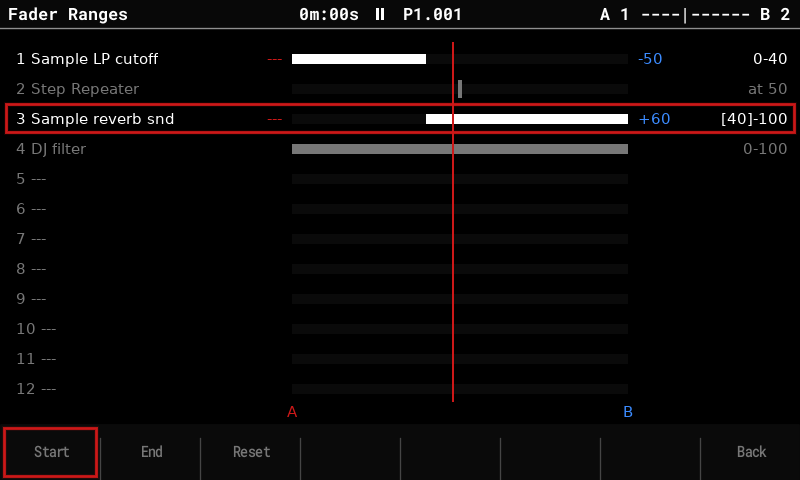
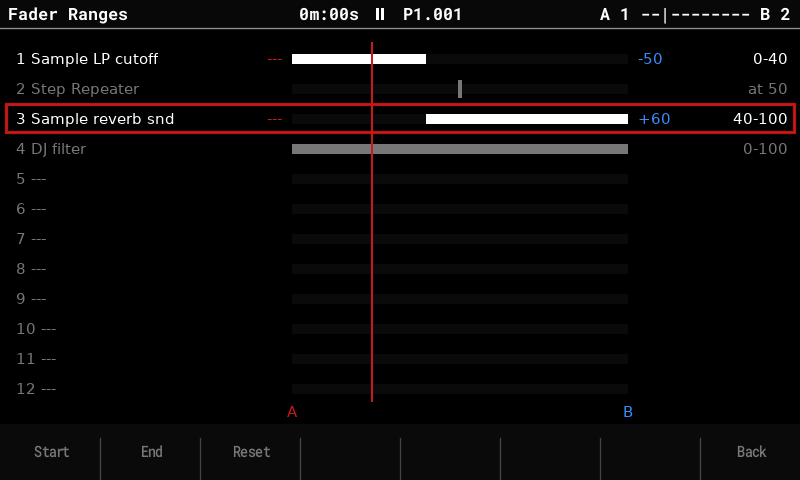
Fader Ranges page: Start / End toggle like Rec, the encoder moves the fader
F1 Start / F2 End now toggle their edge on and off. With one on, the
encoder moves that edge (its key framed, the edge bracketed); with neither,
the encoder moves the scene fader, as on the Performance screen. That
replaces Shift+encoder for the fader, so the page has no key combo. The
page opens with no edge on.

Changed region(s): [[0.0, 0.875, 0.125, 1.0], [0.9062, 0.2188, 0.9375, 0.2812]]

diff --git a/src/core/ui/screen_performance.cpp b/src/core/ui/screen_performance.cpp
@@ -454,7 +454,7 @@ void PerformanceScreen::padLeds(uint8_t* lv) {
     App& a = app_;
     const int dim = a.cfg.padDim(), full = a.cfg.padFull();
     // [I] #12 the Fader Ranges page lights the pads as the play view does
-    // (the fader moves there with Shift+encoder).
+    // (the encoder moves the fader there while no edge is toggled on).
     const bool play = view == View::Play || (view == View::Bank && ranges);
     if (view == View::Bank && !ranges) {
         // [I] The scenes: stored ones lit, the scenes on A / B full.
@@ -543,8 +543,8 @@ void PerformanceScreen::onEncoder(int d) {
         ui_.dirty();
         return;
     }
-    if (view == View::Bank && ranges) {   // [I] #12 the edge; Shift: the fader
-        if (ui_.shift()) setFader(fader + d * kFaderStep);
+    if (view == View::Bank && ranges) {   // [I] #12 the toggled edge, else the fader
+        if (rangeEdge < 0) setFader(fader + d * kFaderStep);
         else moveRange(d);
         refreshBar();
         ui_.dirty();
@@ -1247,7 +1247,7 @@ void PerformanceScreen::bankButton(uint8_t id, uint8_t state) {
         case btn::F4: clearBankScene(bankCursor); break;
         case btn::F5: exportBankFile(); break;
         case btn::F6: openBankFiles(); break;
-        case btn::F7: ranges = true; rangeEdge = 0; break;   // [I] #12
+        case btn::F7: ranges = true; rangeEdge = -1; break;   // [I] #12
         case btn::F8: view = View::Play; break;
         default: return;
     }
@@ -1878,8 +1878,9 @@ void PerformanceScreen::drawBank(Gfx& g) {
         wg::list(g, th, v);
     } else if (ranges) {
         drawRanges(g);
-        // The edge the encoder moves: its key (F1 Start / F2 End) framed.
-        if (!ui_.askOpen() && !ui_.kb.isOpen()) wg::focusFrame(g, ui_.th(), 100 * rangeEdge + 4, 428, 100 * rangeEdge + 96, 476);
+        // The edge the encoder moves: its key (F1 Start / F2 End) framed while toggled on.
+        if (rangeEdge >= 0 && !ui_.askOpen() && !ui_.kb.isOpen())
+            wg::focusFrame(g, ui_.th(), 100 * rangeEdge + 4, 428, 100 * rangeEdge + 96, 476);
     } else {
         drawBankGrid(g);
     }
@@ -1966,8 +1967,9 @@ void PerformanceScreen::rangeButton(uint8_t id) {
     switch (id) {
         case btn::Up: rangeCursor = clampi(rangeCursor - 1, 0, perf::kSlots - 1); break;
         case btn::Down: rangeCursor = clampi(rangeCursor + 1, 0, perf::kSlots - 1); break;
-        case btn::F1: rangeEdge = 0; break;
-        case btn::F2: rangeEdge = 1; break;
+        // Toggles, like Rec: on, the encoder moves that edge; off, the fader.
+        case btn::F1: rangeEdge = rangeEdge == 0 ? -1 : 0; break;
+        case btn::F2: rangeEdge = rangeEdge == 1 ? -1 : 1; break;
         case btn::F3: {
             p.setRange(rangeCursor, 0, kFaderMax);
             app_.markProjectDirty();
@@ -2050,7 +2052,7 @@ void PerformanceScreen::drawRanges(Gfx& g) {
             const int lo = p.rangeStart(c), hi = p.rangeEnd(c);
             // The selected column marks the edge the encoder moves.
             if (sel && rangeEdge == 0) std::snprintf(v, sizeof(v), "[%d]-%d", lo, hi);
-            else if (sel) std::snprintf(v, sizeof(v), "%d-[%d]", lo, hi);
+            else if (sel && rangeEdge == 1) std::snprintf(v, sizeof(v), "%d-[%d]", lo, hi);
             else std::snprintf(v, sizeof(v), "%d-%d", lo, hi);
         }
         g.text(kValX, y, kFontText, col, v, IDisplay::kOptRightX | IDisplay::kOptCenterY);

diff --git a/tests/fader_ranges_test.cpp b/tests/fader_ranges_test.cpp
@@ -177,9 +177,13 @@ TEST(fader_ranges_page_keys) {
     CHECK(s.ranges);
     r.h.run(40);
     CHECK(r.h.disp.lastHasText("Fader Ranges"));
-    CHECK(r.h.disp.lastHasText("[0]-100"));   // column 1, the start edge
+    CHECK(!r.h.disp.lastHasText("[0]-100"));   // no edge toggled on
+    CHECK(r.h.disp.lastHasText("0-100"));
     CHECK(r.h.disp.lastHasText("at 50"));     // Direction (stepped)
-    // The encoder moves the start, F2 then the end.
+    // F1 toggles the start on: the encoder moves it; F2 then the end.
+    r.h.tap(btn::F1);
+    r.h.run(40);
+    CHECK(r.h.disp.lastHasText("[0]-100"));
     r.h.enc(10);
     CHECK_EQ(r.pj().rangeStart(0), 10);
     r.h.tap(btn::F2);
@@ -202,11 +206,12 @@ TEST(fader_ranges_page_keys) {
     r.h.enc(16);
     CHECK_EQ(r.pj().rangeStart(10), 66);
     CHECK_EQ(r.pj().rangeEnd(10), 66);
-    // Shift+encoder moves the fader, heard live.
-    r.h.down(btn::Shift);
+    // F2 again toggles the end off: the encoder moves the fader, heard live.
+    r.h.tap(btn::F2);
+    CHECK_EQ(s.rangeEdge, -1);
     for (int i = 0; i < 34; ++i) r.h.enc(1);
-    r.h.up(btn::Shift);
     CHECK_EQ(s.fader, 68);
+    CHECK_EQ(r.pj().rangeStart(10), 66);   // the switch point stayed
     CHECK_EQ(s.cur[10], 1);
     CHECK_EQ(s.cur[0], 18);
     CHECK(r.a().unsavedChanges());

diff --git a/src/core/ui/screens.h b/src/core/ui/screens.h
@@ -892,13 +892,14 @@ public:
     void importBankFile();   // the highlighted file, after the confirm
     void exportBankFile();   // the keyboard, then the save
     // [I] #12 Fader Ranges page (bank page F7): a row per column with its
-    // interval on the crossfader. Up / Down or a pad pick the column, F1 /
-    // F2 pick the start / end edge (a stepped column has one switch point,
-    // either key moves it), the encoder moves it, Shift+encoder moves the
-    // fader (heard live), F3 resets the column to the whole fader, F8 back.
+    // interval on the crossfader. Up / Down or a pad pick the column; F1 /
+    // F2 toggle the start / end edge (a stepped column has one switch point,
+    // either key moves it): toggled on, the encoder moves it, off, the
+    // encoder moves the fader (heard live). F3 resets the column to the
+    // whole fader, F8 back.
     bool ranges = false;
     int rangeCursor = 0;
-    int rangeEdge = 0;   // 0 start, 1 end
+    int rangeEdge = -1;   // the edge the encoder moves: 0 start, 1 end, -1 none (the fader)
     void rangeButton(uint8_t id);
     void moveRange(int d);
     void drawRanges(Gfx& g);

diff --git a/docs/guide/performance.md b/docs/guide/performance.md
@@ -121,9 +121,8 @@ it has one **switch point** instead (`at 50` by default).
 | Key | Does |
 |---|---|
 | Up / Down or a pad | Select a column. |
-| **F1 Start / F2 End** | Choose which edge the encoder moves: its key is framed, and the edge is in brackets (`[0]-100`). A stepped column's switch point moves with either. |
-| Encoder | Move the edge. |
-| **Shift + encoder** | Move the fader, to hear the result without leaving the page. |
+| **F1 Start / F2 End** | Toggle that edge on or off, like Rec. While one is on, its key is framed and the edge is in brackets (`[0]-100`). A stepped column's switch point moves with either. |
+| Encoder | With Start or End on: move that edge. With neither: move the fader, to hear the result without leaving the page. |
 | **F3 Reset** | The selected column back to the whole fader (0–100). |
 | **F8 Back** | Back to the bank page. **Performance** goes back to playing. |
 
